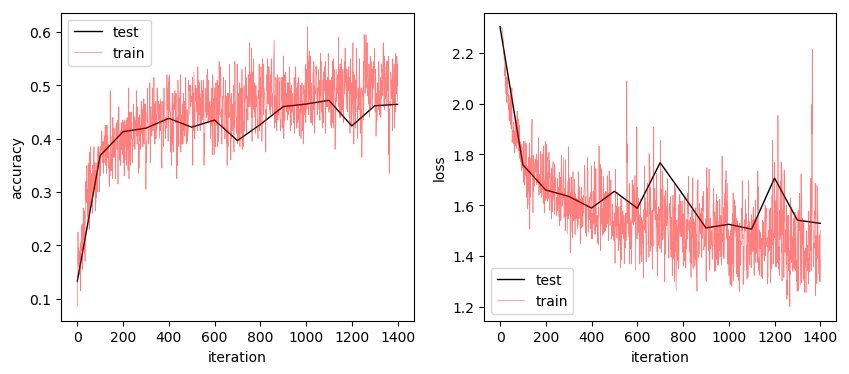
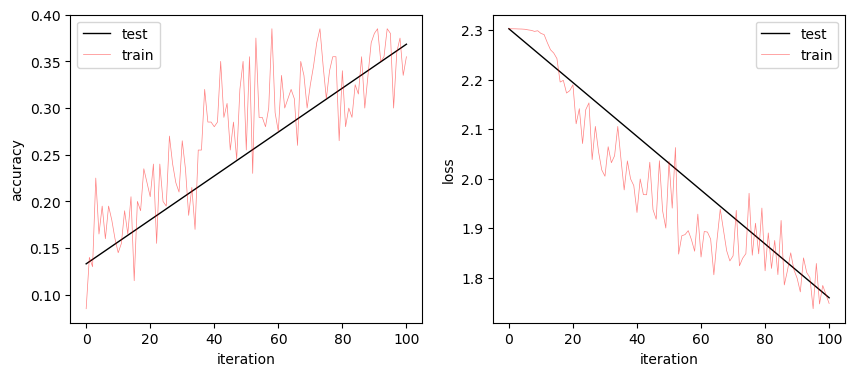
Update numpy and Pytorch implementations

diff --git a/assignment_1/code/train_mlp_pytorch.py b/assignment_1/code/train_mlp_pytorch.py
@@ -23,11 +23,34 @@ import torch.nn.functional as F
 import torch.optim as optim
 
 # Default constants
+'''
 DNN_HIDDEN_UNITS_DEFAULT = '100'
 LEARNING_RATE_DEFAULT = 2e-3
 MAX_STEPS_DEFAULT = 1500
 BATCH_SIZE_DEFAULT = 200
 EVAL_FREQ_DEFAULT = 100
+'''
+
+# DNN_HIDDEN_UNITS_DEFAULT = '200, 100, 50'
+# LEARNING_RATE_DEFAULT = 2e-3
+# MAX_STEPS_DEFAULT = 20000
+# BATCH_SIZE_DEFAULT = 200
+# EVAL_FREQ_DEFAULT = 200
+
+
+# 0.523
+# DNN_HIDDEN_UNITS_DEFAULT = '200, 100, 50, 20'
+# LEARNING_RATE_DEFAULT = 2e-3
+# MAX_STEPS_DEFAULT = 40000
+# BATCH_SIZE_DEFAULT = 200
+# EVAL_FREQ_DEFAULT = 200
+
+DNN_HIDDEN_UNITS_DEFAULT = '500, 400, 300, 200, 100'
+LEARNING_RATE_DEFAULT = 2e-5
+MAX_STEPS_DEFAULT = 40000
+BATCH_SIZE_DEFAULT = 200
+EVAL_FREQ_DEFAULT = 200
+
 
 # Directory in which cifar data is saved
 DATA_DIR_DEFAULT = './cifar10/cifar-10-batches-py'
@@ -35,7 +58,7 @@ DATA_DIR_DEFAULT = './cifar10/cifar-10-batches-py'
 FLAGS = None
 
 
-def accuracy(predictions, idx_t):
+def accuracy(predictions, targets):
     """
   Computes the prediction accuracy, i.e. the average of correct predictions
   of the network.
@@ -57,6 +80,7 @@ def accuracy(predictions, idx_t):
     # PUT YOUR CODE HERE  #
     #######################
     _, idx_p = predictions.max(1)
+    _, idx_t = targets.max(1)
     correct = [(1 if idx_p[i] == idx_t[i] else 0) for i in range(len(idx_p))]
     accuracy = sum(correct) / len(correct)
     ########################
@@ -100,18 +124,15 @@ def train():
     device = torch.device("cuda:0" if torch.cuda.is_available() else "cpu")
     device = "cpu"
     print("Device:", device)
-    
+
+    # fp = open('memory_profiler_basic_mean.log', 'w+')
+    # @profile(stream=fp)
     def test():
-        x_t = cifar10['test'].images
-        y_t = cifar10['test'].labels
-        x_t = torch.from_numpy(x_t.reshape(-1, input_size))
-        y_t = torch.from_numpy(y_t).type(torch.LongTensor)
-        y_t = to_label(y_t)
-        x_t, y_t = x_t.to(device), y_t.to(device)
+        net.eval()
         
         output_t = net(x_t)
         loss_t = criterion(output_t, y_t)
-        acc_t = accuracy(output_t, y_t)
+        acc_t = accuracy(output_t, y_t_onehot)
         
         return acc_t, loss_t
     
@@ -119,7 +140,6 @@ def train():
         idx_test = list(range(0, iteration + 1, eval_freq))
         idx = list(range(0, iteration + 1))
         
-        plt.figure(figsize=(10, 4))
         plt.clf()
         plt.cla()
         plt.subplot(1, 2, 1)
@@ -142,44 +162,67 @@ def train():
         _, tensor = tensor.max(1)
         return tensor
     
+    
+    
     cifar10 = cifar10_utils.get_cifar10('cifar10/cifar-10-batches-py')
     net = MLP(input_size, dnn_hidden_units, n_classes)
     net.to(device)
     params = list(net.named_parameters())
-    # net.to(device)
+    net.to(device)
     criterion = nn.CrossEntropyLoss()
-    optimizer = optim.SGD(net.parameters(), lr=lr_rate, momentum=0.9)
+    # optimizer = optim.SGD(net.parameters(), lr=lr_rate, momentum=0.8, nesterov=False)
+    optimizer = optim.Adam(net.parameters(), lr=lr_rate)
     
     losses = []
     accuracies = []
     test_accuracies = []
     test_losses = []
+    alpha = 0.0001
+
+    x_t = cifar10['test'].images
+    y_t = cifar10['test'].labels
+    x_t = torch.from_numpy(x_t.reshape(-1, input_size))
+    y_t_onehot = torch.from_numpy(y_t).type(torch.LongTensor)
+    y_t = to_label(y_t_onehot)
+    x_t, y_t = x_t.to(device), y_t.to(device)
+
+    plt.figure(figsize=(10, 4))
     
     for i in range(n_iterations):
+        
         x, y = cifar10['train'].next_batch(batch_size)
         x = torch.from_numpy(x.reshape(-1, input_size))
-        y = torch.from_numpy(y).type(torch.LongTensor)
-        y = to_label(y)
+        y_onehot = torch.from_numpy(y).type(torch.LongTensor)
+        y = to_label(y_onehot)
         x, y = x.to(device), y.to(device)
         
         optimizer.zero_grad()
         output = net(x)
-        # output = to_label(output)
-        loss = criterion(output, y)
+        train_loss = criterion(output, y)
+
+        reg_loss = 0
+        for param in net.parameters():
+            reg_loss += param.norm(2)
+            
+        loss = train_loss + alpha * reg_loss
         loss.backward()
         optimizer.step()
         
-        losses.append(loss)
-        accuracies.append(accuracy(output, y))
+        losses.append(loss.item())
+        accuracies.append(accuracy(output, y_onehot))
+        
+        del x, y
         
         if i % eval_freq == 0:
             acc_t, loss_t = test()
             test_accuracies.append(acc_t)
             test_losses.append(loss_t)
-            print("[{}/{}] Test Accuracy: {} | Batch Accuracy: {} | Batch Loss: {} |".format(
-                i, n_iterations, test_accuracies[-1], accuracies[-1], loss
+            print("[{}/{}] Test Accuracy: {} | Batch Accuracy: {} | Batch Loss: {} | Train/Reg: {}/{}".format(
+                i, n_iterations, test_accuracies[-1], accuracies[-1], loss, train_loss, reg_loss * alpha
             ))
             plot(i)
+            
+            net.train()
             
             
     ########################

diff --git a/assignment_1/code/mlp_pytorch.py b/assignment_1/code/mlp_pytorch.py
@@ -48,12 +48,18 @@ class MLP(nn.Module):
         
         self.layers = nn.Sequential()
         for i in range(self.n_layers):
-            self.layers.add_module("Linear_" + str(i), nn.Linear(self.size_layers[i], self.size_layers[i + 1]))
+            linear = nn.Linear(self.size_layers[i], self.size_layers[i + 1])
+            # torch.nn.init.normal_(linear.weight, 0, 0.01)
+            # linear.bias.data.fill_(0.)
+            
+            self.layers.add_module("Linear_" + str(i), linear)
+            # self.layers.add_module("BatchNorm_" + str(i), nn.BatchNorm1d(self.size_layers[i+1]))
             self.layers.add_module("ReLU_" + str(i), nn.ReLU())
+            # self.layers.add_module("Dropout_" + str(i), nn.Dropout(p=0.1))
         self.layers.add_module("Linear_" + str(i+1), nn.Linear(self.size_layers[-1], self.n_outputs))
         self.layers.add_module("Softmax", nn.Softmax(dim=1))
         
-        
+        self.sequential = nn.Sequential(*self.layers)
         ########################
         # END OF YOUR CODE    #
         #######################
@@ -75,9 +81,10 @@ class MLP(nn.Module):
         ########################
         # PUT YOUR CODE HERE  #
         #######################
-        for layer in self.layers:
-            x = layer(x)
-        out = x
+        # for layer in self.layers:
+        #     x = layer(x)
+        # out = x
+        out = self.sequential(x)
         ########################
         # END OF YOUR CODE    #
         #######################

diff --git a/assignment_1/code/modules.py b/assignment_1/code/modules.py
@@ -208,7 +208,6 @@ class SoftMaxModule(object):
     product3d = self.softmaxes.reshape(d1, d2, 1) @ self.softmaxes.reshape(d1, 1, d2)
     dsoftmax = diag3d - product3d
     dx = (dsoftmax @ dout.reshape(d1, d2, 1)).reshape(d1, d2)
-    # dx = np.sum(dsoftmax * self.softmaxes.reshape(d1, d2, 1), axis=2).reshape(d1, d2)
     
     ########################
     # END OF YOUR CODE    #
